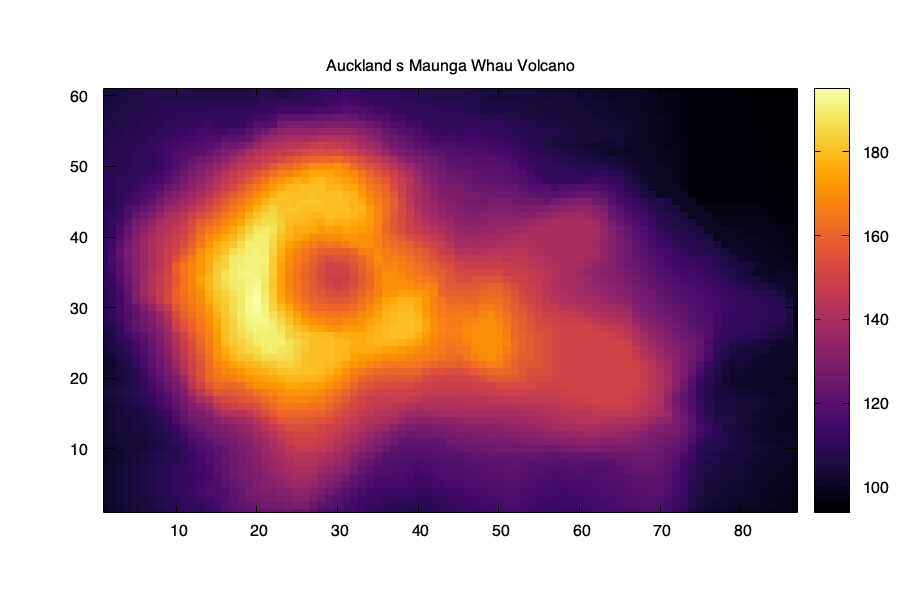
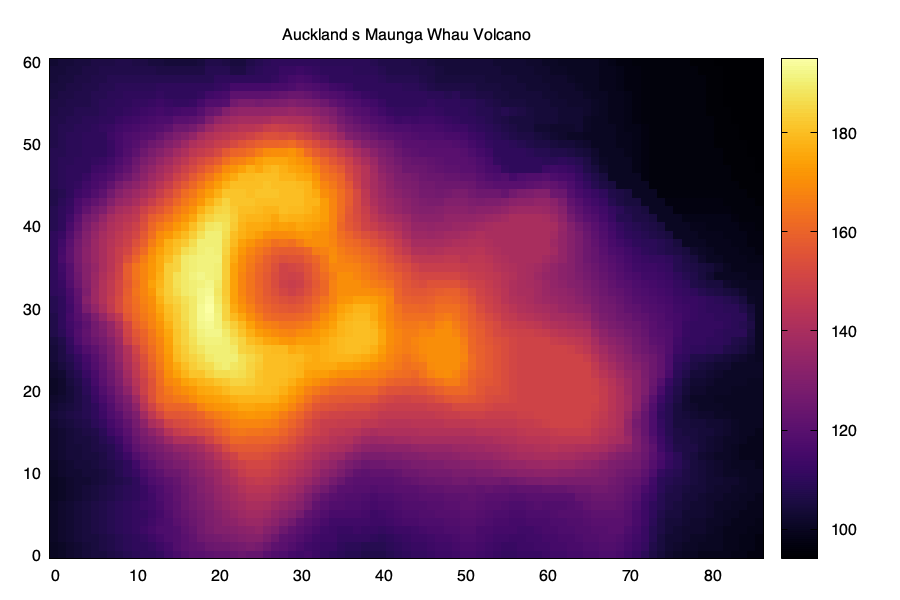
Deploying to master from  @ 4caace52b41ad1f5f14e69e4d8bc6924890527da 🚀

diff --git a/menu2/index.html b/menu2/index.html
@@ -1,7 +1,7 @@
 <!doctype html> <!-- Minimal Mistakes Jekyll Theme 4.16.4 by Michael Rose Copyright 2013-2019 Michael Rose - mademistakes.com | @mmistakes Free for personal and commercial use under the MIT license https://github.com/mmistakes/minimal-mistakes/blob/master/LICENSE --> <html lang=en > <meta charset=UTF-8 > <meta name=viewport  content="width=device-width, initial-scale=1"> <link rel=stylesheet  href="/gnuplot-examples/libs/katex/katex.min.css"> <link rel=stylesheet  href="/gnuplot-examples/libs/highlight/github.min.css"> <link rel=stylesheet  href="/gnuplot-examples/css/franklin.css"> <link rel=stylesheet  href="/gnuplot-examples/css/minimal-mistakes.css"> <link rel=stylesheet  href="/gnuplot-examples/css/adjust.css"> <!--[if IE ]> <style> /* old IE unsupported flexbox fixes */ .greedy-nav .site-title { padding-right: 3em; } .greedy-nav button { position: absolute; top: 0; right: 0; height: 100%; } </style> <![endif]--> <link rel=icon  href="/gnuplot-examples/assets/favicon.png"> <title>3d plots</title> <body class=layout--single > <div class=masthead > <div class=masthead__inner-wrap > <div class=masthead__menu > <nav id=site-nav  class=greedy-nav > <a class=site-title  href="/gnuplot-examples/">@gp & @gsp</a> <ul class=visible-links > <li class=masthead__menu-item ><a href="/gnuplot-examples/gallery/" >Gallery</a> <li class=masthead__menu-item ><a href="/gnuplot-examples/menu1/" >2D plots</a> <li class=masthead__menu-item ><a href="/gnuplot-examples/menu2/" >3D plots</a> <li class=masthead__menu-item ><a href="/gnuplot-examples/menu3/">Feature</a> </ul> <button class="greedy-nav__toggle hidden" type=button > <span class=visually-hidden >Toggle menu</span> <div class=navicon ></div> </button> <ul class="hidden-links hidden"></ul> </nav> </div> </div> </div> <div class=initial-content > <div id=main  role=main > <div class="sidebar sticky"> <div itemscope itemtype="https://schema.org/Person"> <!-- <div class=author__avatar > <img src="/gnuplot-examples/assets/minimal-mistakes/zenobia.png" alt="Septimia Zenobia" itemprop=image > </div> --> <!-- <div class=author__content > <h3 class=author__name  itemprop=name >Lazaro Alonso</h3> <p class=author__bio  itemprop=description >Probably not a commoner.</p> </div> --> <div class=author__urls-wrapper > <button class="btn btn--inverse">Follow</button> <ul class="author__urls social-icons"> <!-- <li itemprop=homeLocation  itemscope itemtype="https://schema.org/Place"> <i class="fas fa-fw fa-map-marker-alt" aria-hidden=true ></i> <span itemprop=name >Tierra</span> --> <li><a href="https://twitter.com/LazarusAlon" rel="nofollow noopener noreferrer"><i class="fab fa-fw fa-twitter-square" aria-hidden=true ></i> Twitter</a> <li><a href="https://github.com/gcalderone/Gnuplot.jl" rel="nofollow noopener noreferrer"><i class="fab fa-fw fa-github" aria-hidden=true ></i> GitHub</a> <a class=up-arrow  href="" data-toggle=tooltip  title="TO TOP"> <i class="fa fa-angle-double-up" style="font-size:36px;color:black" ></i> </a> </ul> </div> </div> </div> <div class=franklin-content > <div class=franklin-toc ><ol><li><a href="#basic_plot_from_data">Basic plot from data</a><li><a href="#3d_from_a_function_wire_and_surface_plots">3D from a function, wire and surface plots</a><li><a href="#countour_plot">Countour plot</a><ol><li><a href="#egg">egg </a></ol><li><a href="#lorenz_attractor">Lorenz attractor</a><li><a href="#heat_map">Heat map</a><ol><li><a href="#continuous">continuous</a><li><a href="#discrete">discrete</a></ol><li><a href="#tubes">Tubes</a><li><a href="#spheres">Spheres</a><li><a href="#torus">Torus</a></ol></div> </p> <h2 id=basic_plot_from_data ><a href="#basic_plot_from_data">Basic plot from data</a></h2> <pre><code class="julia hljs"><span class=hljs-keyword >using</span> Gnuplot
 x, y = [<span class=hljs-number >0</span>,<span class=hljs-number >1</span>,<span class=hljs-number >2</span>], [<span class=hljs-number >0</span>,<span class=hljs-number >1</span>,<span class=hljs-number >2</span>]
 Z = [<span class=hljs-number >10</span> <span class=hljs-number >10</span> <span class=hljs-number >10</span>; <span class=hljs-number >10</span> <span class=hljs-number >3</span> <span class=hljs-number >10</span>; <span class=hljs-number >10</span> <span class=hljs-number >2</span> <span class=hljs-number >10</span>]
-<span class=hljs-meta >@gsp</span> x y Z <span class=hljs-string >"w l lc 'red'"</span> <span class=hljs-string >"set view equal xyz"</span></code></pre> <img src="/gnuplot-examples/assets/menu2/code/plt3d_ex1.png" alt=""> <p>More options <pre><code class="julia hljs"><span class=hljs-keyword >using</span> Gnuplot
+<span class=hljs-meta >@gsp</span> x y Z <span class=hljs-string >"w l lc 'red'"</span></code></pre> <img src="/gnuplot-examples/assets/menu2/code/plt3d_ex1.png" alt=""> <p>More options <pre><code class="julia hljs"><span class=hljs-keyword >using</span> Gnuplot
 <span class=hljs-meta >@gsp</span> <span class=hljs-string >"unset key"</span> <span class=hljs-string >"set multi layout 2,2 title 'Multiplot title'"</span> :-
 <span class=hljs-meta >@gsp</span> :- <span class=hljs-number >1</span> x y Z <span class=hljs-string >"w linespoints pt 4 ps 2"</span> <span class=hljs-string >"set view 55, 65"</span> :-
 <span class=hljs-meta >@gsp</span> :- <span class=hljs-number >2</span> x y Z <span class=hljs-string >"w points pt 3 ps 3"</span> <span class=hljs-string >"set view 55, 65"</span> :-
@@ -53,13 +53,13 @@ tempo = sol.t
 <span class=hljs-meta >@gsp</span> :- xlab = <span class=hljs-string >"x"</span> ylab = <span class=hljs-string >"y"</span> zlab = <span class=hljs-string >"z"</span></code></pre> <img src="/gnuplot-examples/assets/menu2/code/lorenz.png" alt=""> <p>See the feature section for the animation. </p> <h2 id=heat_map ><a href="#heat_map">Heat map</a></h2> A heat map from data or a matrix can be easily plotted as <pre><code class="julia hljs"><span class=hljs-keyword >using</span> Gnuplot, Random
 Random.seed!(<span class=hljs-number >1234</span>)
 matrix = randn(<span class=hljs-number >50</span>,<span class=hljs-number >60</span>)
-<span class=hljs-meta >@gsp</span> matrix <span class=hljs-string >"w image"</span> <span class=hljs-string >"set view map"</span> <span class=hljs-string >"set auto fix"</span></code></pre> <img src="/gnuplot-examples/assets/menu2/code/plt3d_ex5.png" alt=""> <h3 id=continuous ><a href="#continuous">continuous</a></h3> <pre><code class="julia hljs"><span class=hljs-keyword >using</span> Gnuplot
+<span class=hljs-meta >@gp</span> matrix <span class=hljs-string >"w image notit"</span> <span class=hljs-string >"set auto fix"</span></code></pre> <img src="/gnuplot-examples/assets/menu2/code/plt3d_ex5.png" alt=""> <h3 id=continuous ><a href="#continuous">continuous</a></h3> <pre><code class="julia hljs"><span class=hljs-keyword >using</span> Gnuplot
 x = y = -<span class=hljs-number >5</span>:<span class=hljs-number >1</span>:<span class=hljs-number >5</span>
 z = [x^<span class=hljs-number >2</span> + y^<span class=hljs-number >2</span> <span class=hljs-keyword >for</span> x <span class=hljs-keyword >in</span> x, y <span class=hljs-keyword >in</span> y]
 <span class=hljs-meta >@gsp</span> x y z <span class=hljs-string >"w pm3d notit"</span> <span class=hljs-string >"set view map"</span> <span class=hljs-string >"set auto fix"</span> <span class=hljs-string >"set size square"</span>
 <span class=hljs-meta >@gsp</span> :- xlab = <span class=hljs-string >"x"</span> ylab = <span class=hljs-string >"y"</span> <span class=hljs-string >"set cblabel 'z'"</span> palette(:plasma)
 <span class=hljs-meta >@gsp</span> :- title = <span class=hljs-string >"3D Heatmap"</span>
-<span class=hljs-comment ># please also see Heatmap discrete and make sure you are using the righ one.</span>
+<span class=hljs-comment ># please also see Heatmap discrete and make sure you are using the right one.</span>
 save(term =<span class=hljs-string >"pngcairo size 600,400"</span>, output =<span class=hljs-string >"heatmap1.png"</span>)</code></pre> <img src="/gnuplot-examples/assets/menu2/code/heatmap1.png" alt=""> <h3 id=discrete ><a href="#discrete">discrete</a></h3> <pre><code class="julia hljs"><span class=hljs-keyword >using</span> Gnuplot
 x = y = -<span class=hljs-number >5</span>:<span class=hljs-number >1</span>:<span class=hljs-number >5</span>
 z = [x^<span class=hljs-number >2</span> + y^<span class=hljs-number >2</span> <span class=hljs-keyword >for</span> x <span class=hljs-keyword >in</span> x, y <span class=hljs-keyword >in</span> y]
@@ -68,8 +68,8 @@ z = [x^<span class=hljs-number >2</span> + y^<span class=hljs-number >2</span> <
 <span class=hljs-meta >@gsp</span> :- title = <span class=hljs-string >"Heatmap Discrete"</span>
 save(term =<span class=hljs-string >"pngcairo size 600,400"</span>, output =<span class=hljs-string >"heatmap2.png"</span>)</code></pre> <img src="/gnuplot-examples/assets/menu2/code/heatmap2.png" alt=""> <p>or real data with a custom colormap</p> <pre><code class="julia hljs"><span class=hljs-keyword >using</span> Gnuplot, ColorSchemes, RDatasets
 volcano = <span class=hljs-built_in >Matrix</span>{<span class=hljs-built_in >Float64</span>}(dataset(<span class=hljs-string >"datasets"</span>, <span class=hljs-string >"volcano"</span>))
-<span class=hljs-meta >@gsp</span> title = <span class=hljs-string >"Auckland s Maunga Whau Volcano"</span> :-
-<span class=hljs-meta >@gsp</span> :- volcano <span class=hljs-string >"w image"</span> <span class=hljs-string >"set view map"</span> <span class=hljs-string >"set auto fix"</span> palette(:inferno)</code></pre> <img src="/gnuplot-examples/assets/menu2/code/plt3d_ex6.png" alt=""> <h2 id=tubes ><a href="#tubes">Tubes</a></h2> <pre><code class="julia hljs"><span class=hljs-keyword >using</span> Gnuplot
+<span class=hljs-meta >@gp</span> title = <span class=hljs-string >"Auckland s Maunga Whau Volcano"</span> :-
+<span class=hljs-meta >@gp</span> :- volcano <span class=hljs-string >"w image"</span> <span class=hljs-string >"set auto fix"</span> <span class=hljs-string >"set size ratio -1"</span> palette(:inferno)</code></pre> <img src="/gnuplot-examples/assets/menu2/code/plt3d_ex6.png" alt=""> <h2 id=tubes ><a href="#tubes">Tubes</a></h2> <pre><code class="julia hljs"><span class=hljs-keyword >using</span> Gnuplot
 U  = LinRange(<span class=hljs-number >0</span>,<span class=hljs-number >10</span><span class=hljs-literal >π</span>, <span class=hljs-number >80</span>)
 V = LinRange(<span class=hljs-number >0</span>,<span class=hljs-number >2</span><span class=hljs-literal >π</span>, <span class=hljs-number >20</span>)
 x = [(<span class=hljs-number >1</span>-<span class=hljs-number >0.1</span>*cos(v))*cos(u) <span class=hljs-keyword >for</span> u <span class=hljs-keyword >in</span> U, v <span class=hljs-keyword >in</span> V]

diff --git a/menu1/index.html b/menu1/index.html
@@ -176,7 +176,7 @@ tmp = <span class=hljs-built_in >Vector</span>{<span class=hljs-built_in >String
 <span class=hljs-meta >@gp</span> <span class=hljs-string >"set size ratio -1"</span> :-
 <span class=hljs-meta >@gp</span> :- tmp <span class=hljs-string >"w l notit lc 'black' lw 0.2"</span>
 <span class=hljs-meta >@gp</span> :- <span class=hljs-string >"unset xtics; unset ytics; unset border"</span>
-Gnuplot.save(term = <span class=hljs-string >"pngcairo size 800,600"</span>, output = <span class=hljs-string >"bunnyLines.png"</span>)</code></pre> <img src="/gnuplot-examples/assets/menu1/code/bunnyLines.png" alt=""> <p>Now, in color <pre><code class="julia hljs"><span class=hljs-keyword >using</span> FileIO, Gnuplot, ColorSchemes
+save(term = <span class=hljs-string >"pngcairo size 800,600"</span>, output = <span class=hljs-string >"bunnyLines.png"</span>)</code></pre> <img src="/gnuplot-examples/assets/menu1/code/bunnyLines.png" alt=""> <p>Now, in color <pre><code class="julia hljs"><span class=hljs-keyword >using</span> FileIO, Gnuplot, ColorSchemes
 <span class=hljs-keyword >using</span> GeometryBasics, LinearAlgebra, Statistics
 <span class=hljs-comment ># based on https://matplotlib.org/matplotblog/posts/custom-3d-engine/</span>
 <span class=hljs-comment ># download this file</span>
@@ -257,7 +257,7 @@ bunnyC = <span class=hljs-built_in >Vector</span>{<span class=hljs-built_in >Str
 <span class=hljs-meta >@gp</span> :- <span class=hljs-string >"set size ratio -1"</span> :-
 <span class=hljs-meta >@gp</span> :- bunnyC <span class=hljs-string >"w filledcurves notit lc pal"</span> palette(:spring)
 <span class=hljs-meta >@gp</span> :- <span class=hljs-string >"unset colorbox; unset xtics; unset ytics; unset border"</span>
-Gnuplot.save(term = <span class=hljs-string >"pngcairo size 800,600"</span>, output = <span class=hljs-string >"bunnyColor.png"</span>)</code></pre> <img src="/gnuplot-examples/assets/menu1/code/bunnyColor.png" alt=""> <h1 id=histograms ><a href="#histograms">Histograms </a></h1> Three different ways two plot histograms. <pre><code class="julia hljs"><span class=hljs-keyword >using</span> Distributions, StatsBase, LinearAlgebra, Random
+save(term = <span class=hljs-string >"pngcairo size 800,600"</span>, output = <span class=hljs-string >"bunnyColor.png"</span>)</code></pre> <img src="/gnuplot-examples/assets/menu1/code/bunnyColor.png" alt=""> <h1 id=histograms ><a href="#histograms">Histograms </a></h1> Three different ways two plot histograms. <pre><code class="julia hljs"><span class=hljs-keyword >using</span> Distributions, StatsBase, LinearAlgebra, Random
 Random.seed!(<span class=hljs-number >123</span>)
 <span class=hljs-keyword >function</span> histVals(μ,σ; npts=<span class=hljs-number >1000</span>, izq = -<span class=hljs-number >8</span>, der = <span class=hljs-number >6</span>, paso = <span class=hljs-number >0.15</span>)
     dist = rand(Normal(μ,σ), npts)
@@ -434,6 +434,7 @@ categ = unique(byCat)
 save(term =<span class=hljs-string >"pngcairo size 600,400"</span>, output =<span class=hljs-string >"Categorical_cars.png"</span>)</code></pre> <img src="/gnuplot-examples/assets/menu1/code/Categorical_cars.png" alt=""> <h2 id=gapminder ><a href="#gapminder">gapminder</a></h2> <pre><code class="julia hljs"><span class=hljs-keyword >using</span> CSV, Gnuplot, DataFrames, ColorSchemes
 <span class=hljs-comment ># https://vega.github.io/vega-lite/examples/circle_bubble_health_income.html</span>
 <span class=hljs-comment >#https://vega.github.io/vega-datasets/</span>
+<span class=hljs-comment >#link = "https://vega.github.io/vega-datasets/data/gapminder-health-income.cvs"</span>
 <span class=hljs-comment ># load file</span>
 data = CSV.read(<span class=hljs-string >"gapminder-health-income.csv"</span>)
 <span class=hljs-comment ># selecting and plotting</span>
